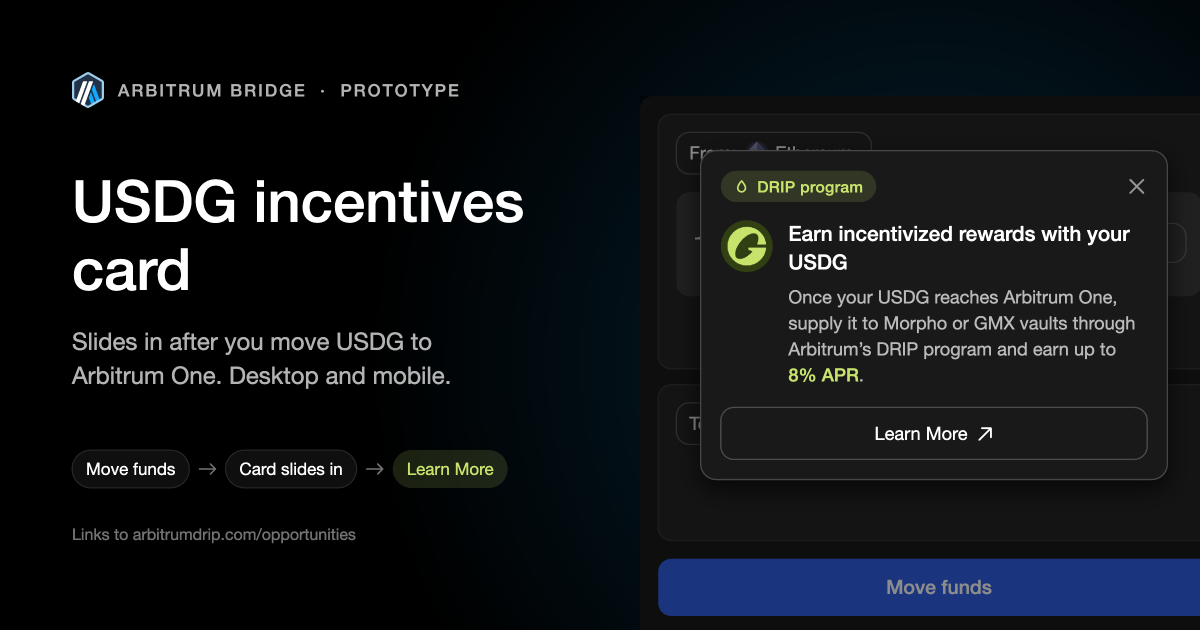
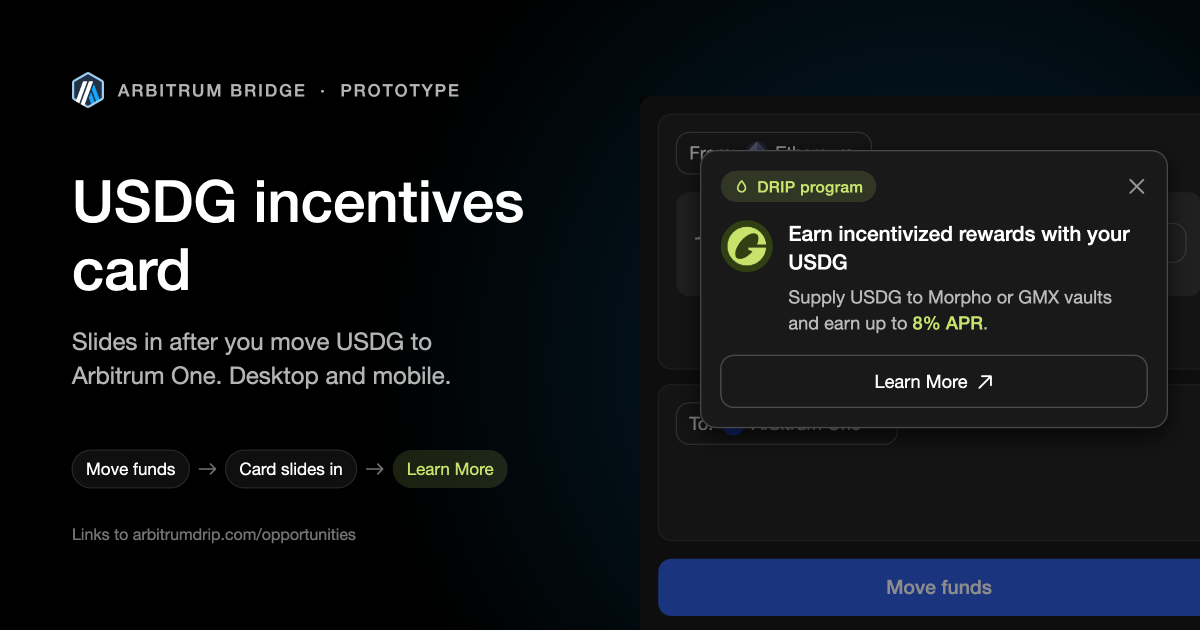
Shorten USDG card body copy

Changed region(s): [[0.6475, 0.4524, 0.9558, 0.6333], [0.7092, 0.6635, 0.8325, 0.6937], [0.5858, 0.6635, 0.6783, 0.6937]]

diff --git a/index.html b/index.html
@@ -322,7 +322,7 @@ main { padding: 15px 16px 64px; }
       <img class="promo-logo" data-a="usdg" src="" alt="USDG" width="40" height="40">
       <div class="promo-text">
         <p class="promo-title">Earn incentivized rewards with your USDG</p>
-        <p class="promo-sub">Once your USDG reaches Arbitrum One, supply it to Morpho or GMX vaults through Arbitrum’s DRIP program and earn up to <strong>8% APR</strong>.</p>
+        <p class="promo-sub">Supply USDG to Morpho or GMX vaults and earn up to <strong>8% APR</strong>.</p>
       </div>
     </div>
     <a class="promo-cta" href="https://arbitrumdrip.com/opportunities" target="_blank" rel="noopener noreferrer">Learn More

diff --git a/README.md b/README.md
@@ -21,7 +21,7 @@ A clickable design prototype of the USDG incentives card for the [Arbitrum Bridg
 | Placement | Desktop: fixed to the top right, slides in from the right edge, 360px wide. Mobile: full width above the bottom navigation |
 | Tag | DRIP program |
 | Headline | Earn incentivized rewards with your USDG |
-| Body | Once your USDG reaches Arbitrum One, supply it to Morpho or GMX vaults through Arbitrum’s DRIP program and earn up to 8% APR. |
+| Body | Supply USDG to Morpho or GMX vaults and earn up to 8% APR. |
 | Call to action | Learn More → https://arbitrumdrip.com/opportunities (opens in a new tab) |
 
 The 8% APR figure was the top Drip rate on launch day (October 6, 2026). In production, pull it live or drop the number.
